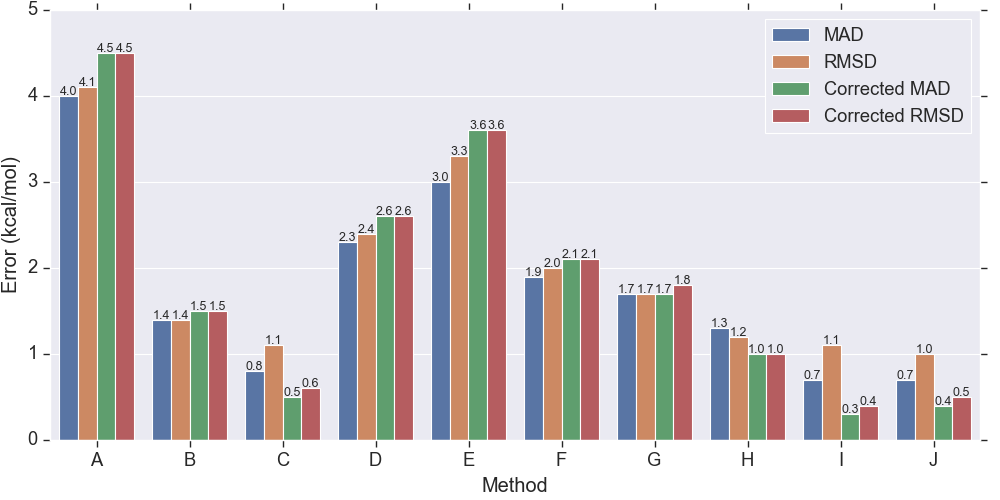
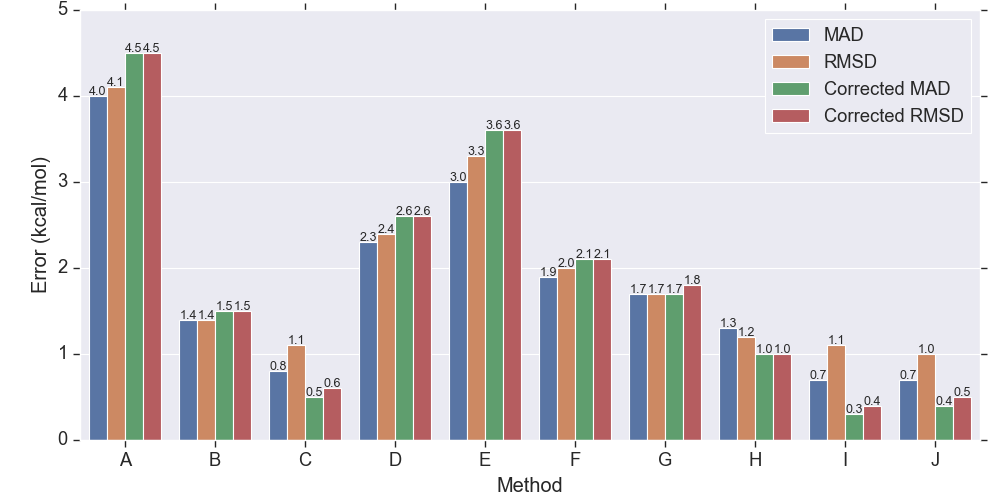
Updated QM plots

diff --git a/QM/visualG/plot_fig.py b/QM/visualG/plot_fig.py
@@ -11,13 +11,16 @@ import pandas as pd
 import numpy as np
 from matplotlib import pyplot as plt
 from QM.run_gaussian.settings import DATA_PATH
-from QM.visualG.plot_config import combination_dict, charge_list, DI_list, benchmarking_data, barrier_data
+from QM.visualG.plot_config import combination_dict, charge_list, charge_list_A, charge_list_B, DI_list, \
+    benchmarking_data, barrier_data
 
 sns.set(context='paper', font_scale=1.5)
 # sns.despine()  # Remove "chartjunk"
 
 SINGLE_PLOT_WIDTH, SINGLE_PLOT_HEIGHT = 6, 4
+TWO_PLOT_WIDTH, TWO_PLOT_HEIGHT = 9, 3.5
 FOUR_PLOTS_WIDTH, FOUR_PLOTS_HEIGHT = 8, 6
+SIX_PLOTS_WIDTH, SIX_PLOTS_HEIGHT = 8, 10
 EIGHT_PLOTS_WIDTH, EIGHT_PLOTS_HEIGHT = 10, 14
 BAR_PLOTS_WIDTH, BAR_PLOTS_HEIGHT = 10, 5
 
@@ -31,13 +34,13 @@ def lin_reg(m, c, r2, xlimit, leg_loc, font_size="x-small"):
 
 
 if __name__ == "__main__":
-    analysis_type = "Bar"
+    analysis_type = "Regression"
     if analysis_type == "Bar":
 
         # Statistical Measures
         df = pd.DataFrame(benchmarking_data)
         fig = plt.figure(figsize=(BAR_PLOTS_WIDTH, BAR_PLOTS_HEIGHT))
-        fig.subplots_adjust(top=0.98, bottom=0.12, left=0.05, right=0.98)
+        fig.subplots_adjust(top=0.98, bottom=0.12, left=0.08, right=0.98)
         ax = sns.barplot(x="Method", y="Error (kcal/mol)", data=df, hue="Measure", palette="deep")
         for p in ax.patches:
             ax.annotate(format(p.get_height(), ".1f"), (p.get_x()+p.get_width()/2., p.get_height()), ha="center",
@@ -45,20 +48,20 @@ if __name__ == "__main__":
         leg = ax.legend(); leg.set_title("")
         plt.legend(loc='upper right'); plt.ylim(None, 5.0); plt.xlim(None, None)
         plt.savefig("Benchmarking Statistical Measures")
-        plt.show()
+        # plt.show()
 
         # Elimination Barriers
         df = pd.DataFrame(barrier_data)
         fig = plt.figure(figsize=(FOUR_PLOTS_WIDTH, FOUR_PLOTS_HEIGHT))
-        fig.subplots_adjust(top=0.9, bottom=0.1, left=0.1, right=0.95)
-        ax = sns.barplot(x="Ligand", y="Elimination Barrier (kcal/mol)", data=df, hue="Mechanism", palette="deep")
+        fig.subplots_adjust(top=0.97, bottom=0.1, left=0.08, right=0.97)
+        ax = sns.barplot(x="Inhibitor", y="Elimination Barrier (kcal/mol)", data=df, hue="Mechanism", palette="deep")
         for p in ax.patches:
             ax.annotate(format(p.get_height(), ".1f"), (p.get_x()+p.get_width()/2., p.get_height()), ha="center",
                         va="center", xytext=(0, 10), textcoords="offset pixels", fontsize=12)
         leg = ax.legend(); leg.set_title("")
         plt.legend(loc='upper left'); plt.ylim(None, None); plt.xlim(None, None)
         plt.savefig("Elimination Barrier for Different Mechanisms")
-        # plt.show()
+        plt.show()
 
     elif analysis_type == "Regression":
         combination = "CombinationI"
@@ -72,31 +75,34 @@ if __name__ == "__main__":
         m, c, r2, x_axis, y_axis, leg, fontsize = chosen_dict["M"], chosen_dict["C"], chosen_dict["R2"], chosen_dict[
             "X-AXIS"], chosen_dict["Y-AXIS"], chosen_dict["LEG"], chosen_dict["FONTSIZE"]
         fig = plt.figure(figsize=(SINGLE_PLOT_WIDTH, SINGLE_PLOT_HEIGHT))
-        fig.subplots_adjust(top=0.9, bottom=0.1, left=0.1, right=0.95)
-        ax = sns.scatterplot(x="TS S-C Distance (A)", y="Addition Barrier (kcal/mol)", data=df, hue="Ligand", legend=False, s=100)
+        fig.subplots_adjust(top=0.99, bottom=0.05, left=0.05, right=0.99)
+        ax = sns.scatterplot(x="TS S-C Distance (A)", y="Addition Barrier (kcal/mol)", data=df, hue="Inhibitor", legend=False, s=100)
         ax.set(xlabel=r"TS S-C$\beta$ Distance ($\AA$)")
+        ax.set(ylabel=u"$\Delta G^\u2021$ (kcal/mol)")
         for line in range(1, df.shape[0] + 1):
             ax.text(df["TS S-C Distance (A)"][line] + x_axis, df["Addition Barrier (kcal/mol)"][line] + y_axis,
-                    df["Ligand"][line], horizontalalignment='center', size='small', color='black')
+                    df["Inhibitor"][line], horizontalalignment='center', size='small', color='black')
         lin_reg(m, c, r2, plt.xlim(), leg, fontsize)
         plt.ylim(None, None); plt.xlim(None, None)
         plt.tight_layout()
         plt.savefig(r"{0}/TS S-C Distance".format(combination))
 
-        # Ligand LUMO Energy
+        # Inhibitor LUMO Energy
         chosen_dict = prop_dict["LUMO"]
         m, c, r2, x_axis, y_axis, leg, fontsize = chosen_dict["M"], chosen_dict["C"], chosen_dict["R2"], chosen_dict[
             "X-AXIS"], chosen_dict["Y-AXIS"], chosen_dict["LEG"], chosen_dict["FONTSIZE"]
         fig = plt.figure(figsize=(SINGLE_PLOT_WIDTH, SINGLE_PLOT_HEIGHT))
-        fig.subplots_adjust(top=0.9, bottom=0.1, left=0.1, right=0.95)
-        ax = sns.scatterplot(x="Ligand LUMO Energy (kcal/mol)", y="Addition Barrier (kcal/mol)", data=df, hue="Ligand", legend=False, s=100)
+        fig.subplots_adjust(top=0.99, bottom=0.05, left=0.05, right=0.99)
+        ax = sns.scatterplot(x="Inhibitor LUMO Energy (kcal/mol)", y="Addition Barrier (kcal/mol)", data=df, hue="Inhibitor", legend=False, s=100)
+        ax.set(ylabel=u"$\Delta G^\u2021$ (kcal/mol)")
         for line in range(1, df.shape[0] + 1):
-            ax.text(df["Ligand LUMO Energy (kcal/mol)"][line] + x_axis, df["Addition Barrier (kcal/mol)"][line] + y_axis,
-                    df["Ligand"][line], horizontalalignment='center', size='small', color='black')
+            ax.text(df["Inhibitor LUMO Energy (kcal/mol)"][line] + x_axis, df["Addition Barrier (kcal/mol)"][line] + y_axis,
+                    df["Inhibitor"][line], horizontalalignment='center', size='small', color='black')
         lin_reg(m, c, r2, plt.xlim(), leg, fontsize)
         plt.ylim(None, None); plt.xlim(None, None)
         plt.tight_layout()
-        plt.savefig("{0}/Ligand LUMO Energy".format(combination))
+        plt.savefig("{0}/Inhibitor LUMO Energy".format(combination))
+        # plt.show()
 
         # Beta-Carbon Charges
         fig = plt.figure(figsize=(EIGHT_PLOTS_WIDTH, EIGHT_PLOTS_HEIGHT))
@@ -109,30 +115,79 @@ if __name__ == "__main__":
                 "X-AXIS"], chosen_dict["Y-AXIS"], chosen_dict["LEG"], chosen_dict["ALIGN"], chosen_dict["FONTSIZE"], chosen_dict["X-NAME"]
             ax1 = fig.add_subplot(4, 2, i + 1)
             p1 = sns.scatterplot(x=x_name, y="Addition Barrier (kcal/mol)", data=df,
-                                 hue="Ligand", legend=False, s=100)
+                                 hue="Inhibitor", legend=False, s=100)
             for line in range(1, df.shape[0] + 1):
                 ax1.text(df[x_name][line] + x_axis, df["Addition Barrier (kcal/mol)"][line] + y_axis,
-                         df["Ligand"][line], horizontalalignment=txt_align, size='small', color='black')
+                         df["Inhibitor"][line], horizontalalignment=txt_align, size='small', color='black')
             lin_reg(m, c, r2, plt.xlim(), leg, fontsize)
         plt.savefig("{0}/Beta-Carbon Charges".format(combination))
         # plt.show()
 
+        # Beta-Carbon Charges for Report
+        fig = plt.figure(figsize=(TWO_PLOT_WIDTH, TWO_PLOT_HEIGHT))
+        fig.subplots_adjust(top=0.96, bottom=0.18, left=0.08, right=0.97, wspace=0.25, hspace=0.45)
+        # fig.suptitle(r"Correlation between $\beta$-Carbon Charge and Addition Barrier",
+        #              horizontalalignment='center', fontsize=16, weight='bold')
+        for i, model in enumerate(charge_list_A):
+            chosen_dict = prop_dict["Charge"][model]
+            m, c, r2, x_axis, y_axis, leg, txt_align, fontsize, x_name = chosen_dict["M"], chosen_dict["C"], chosen_dict["R2"], chosen_dict[
+                "X-AXIS"], chosen_dict["Y-AXIS"], chosen_dict["LEG"], chosen_dict["ALIGN"], chosen_dict["FONTSIZE"], chosen_dict["X-NAME"]
+            ax1 = fig.add_subplot(1, 2, i + 1)
+            p1 = sns.scatterplot(x=x_name, y="Addition Barrier (kcal/mol)", data=df,
+                                 hue="Inhibitor", legend=False, s=100)
+            p1.set(ylabel=u"$\Delta G^\u2021$ (kcal/mol)")
+            for line in range(1, df.shape[0] + 1):
+                ax1.text(df[x_name][line] + x_axis, df["Addition Barrier (kcal/mol)"][line] + y_axis,
+                         df["Inhibitor"][line], horizontalalignment=txt_align, size='small', color='black')
+            lin_reg(m, c, r2, plt.xlim(), leg, fontsize)
+        fig.text(0.005, 0.96, "(a)", va='center', ha='left'); fig.text(0.5, 0.96, "(b)", va='center', ha='left')
+        plt.savefig("{0}/Beta-Carbon Charges for Report A".format(combination))
+
+        fig = plt.figure(figsize=(SIX_PLOTS_WIDTH, SIX_PLOTS_HEIGHT))
+        fig.subplots_adjust(top=0.98, bottom=0.06, left=0.09, right=0.97, wspace=0.3, hspace=0.35)
+        # fig.suptitle(r"Correlation between $\beta$-Carbon Charge and Addition Barrier",
+        #              horizontalalignment='center', fontsize=16, weight='bold')
+        for i, model in enumerate(charge_list_B):
+            chosen_dict = prop_dict["Charge"][model]
+            m, c, r2, x_axis, y_axis, leg, txt_align, fontsize, x_name = chosen_dict["M"], chosen_dict["C"], chosen_dict["R2"], chosen_dict[
+                "X-AXIS"], chosen_dict["Y-AXIS"], chosen_dict["LEG"], chosen_dict["ALIGN"], chosen_dict["FONTSIZE"], chosen_dict["X-NAME"]
+            ax1 = fig.add_subplot(3, 2, i + 1)
+            p1 = sns.scatterplot(x=x_name, y="Addition Barrier (kcal/mol)", data=df,
+                                 hue="Inhibitor", legend=False, s=100)
+            p1.set(ylabel=u"$\Delta G^\u2021$ (kcal/mol)")
+            for line in range(1, df.shape[0] + 1):
+                ax1.text(df[x_name][line] + x_axis, df["Addition Barrier (kcal/mol)"][line] + y_axis,
+                         df["Inhibitor"][line], horizontalalignment=txt_align, size='small', color='black')
+            lin_reg(m, c, r2, plt.xlim(), leg, fontsize)
+        fig.text(0.007, 0.98, "(a)", va='center', ha='left'); fig.text(0.505, 0.98, "(b)", va='center', ha='left')
+        fig.text(0.007, 0.643, "(c)", va='center', ha='left'); fig.text(0.505, 0.643, "(d)", va='center', ha='left')
+        fig.text(0.007, 0.31, "(e)", va='center', ha='left'); fig.text(0.505, 0.31, "(f)", va='center', ha='left')
+        plt.savefig("{0}/Beta-Carbon Charges for Report B".format(combination))
+        # plt.show()
+
+        raise
+
         # Distortion/Interaction Analysis
         fig = plt.figure(figsize=(FOUR_PLOTS_WIDTH, FOUR_PLOTS_HEIGHT))
-        # fig, axes = plt.subplots(nrows=2, ncols=2, sharex=False, sharey=True)
-        fig.subplots_adjust(top=0.9, bottom=0.1, left=0.1, right=0.95, wspace=0.3, hspace=0.45)
-        fig.suptitle("Correlation between Distortion/Interaction Energies and Addition Barrier", horizontalalignment='center', fontsize=16, weight='bold')
+        fig.subplots_adjust(top=0.98, bottom=0.11, left=0.09, right=0.97, wspace=0.35, hspace=0.4)
+        # fig.suptitle("Correlation between Distortion/Interaction Energies and Addition Barrier",
+        #             horizontalalignment='center', fontsize=16, weight='bold')
         for i, aspect in enumerate(DI_list):
             chosen_dict = prop_dict["DI"][aspect]
             m, c, r2, x_axis, y_axis, leg, txt_align, fontsize, x_name = chosen_dict["M"], chosen_dict["C"], chosen_dict["R2"], chosen_dict[
                 "X-AXIS"], chosen_dict["Y-AXIS"], chosen_dict["LEG"], chosen_dict["ALIGN"], chosen_dict["FONTSIZE"], chosen_dict["X-NAME"]
             ax1 = fig.add_subplot(2, 2, i + 1)
             p1 = sns.scatterplot(x=x_name, y="Addition Barrier (kcal/mol)", data=df,
-                                 hue="Ligand", legend=False, s=100)
+                                 hue="Inhibitor", legend=False, s=100)
+            p1.set(ylabel=u"$\Delta G^\u2021$ (kcal/mol)")
+            if aspect == "Activation":
+                p1.set(xlabel=u"$\Delta E^\u2021$ (kcal/mol)")
             for line in range(1, df.shape[0] + 1):
                 ax1.text(df[x_name][line] + x_axis, df["Addition Barrier (kcal/mol)"][line] + y_axis,
-                         df["Ligand"][line], horizontalalignment=txt_align, size='small', color='black')
+                         df["Inhibitor"][line], horizontalalignment=txt_align, size='small', color='black')
             lin_reg(m, c, r2, plt.xlim(), leg, fontsize)
+        fig.text(0.005, 0.98, "(a)", va='center', ha='left'); fig.text(0.51, 0.98, "(b)", va='center', ha='left')
+        fig.text(0.005, 0.47, "(c)", va='center', ha='left'); fig.text(0.51, 0.47, "(d)", va='center', ha='left')
         plt.ylim(None, None); plt.xlim(None, None)
         plt.savefig("{0}/Distortion-Interaction Analysis".format(combination))
         # plt.show()

diff --git a/QM/visualG/plot_config.py b/QM/visualG/plot_config.py
@@ -7,8 +7,10 @@ Though recognition of my effort is appreciated! XD
 """
 
 
-charge_list = ["Mulliken", "NBO", "MK", "Hirshfeld", "CM5", "AIM", "ChelpG", "Omega"]
-DI_list = ["Thiolate", "Ligand", "Activation", "Interaction"]
+charge_list = ["Mulliken", "NBO", "MK", "Hirshfeld", "CM5", "QTAIM", "ChelpG", "Omega"]
+charge_list_A = ["Mulliken", "QTAIM"]
+charge_list_B = ["NBO", "MK", "Hirshfeld", "CM5", "ChelpG", "Omega"]
+DI_list = ["Thiolate", "Inhibitor", "Activation", "Interaction"]
 
 benchmarking_data = {"Measure": ["MAD", "MAD", "MAD", "MAD", "MAD", "MAD", "MAD", "MAD", "MAD", "MAD",
                                  "RMSD", "RMSD", "RMSD", "RMSD", "RMSD", "RMSD", "RMSD", "RMSD", "RMSD", "RMSD",
@@ -26,7 +28,7 @@ benchmarking_data = {"Measure": ["MAD", "MAD", "MAD", "MAD", "MAD", "MAD", "MAD"
 barrier_data = {"Mechanism": ["Base-Catalysed Proton Abstraction", "Base-Catalysed Proton Abstraction", "Base-Catalysed Proton Abstraction", "Base-Catalysed Proton Abstraction", "Base-Catalysed Proton Abstraction",
                               "4-Membered Intramolecular Proton Transfer", "4-Membered Intramolecular Proton Transfer", "4-Membered Intramolecular Proton Transfer", "4-Membered Intramolecular Proton Transfer", "4-Membered Intramolecular Proton Transfer",
                               "6-Membered Intramolecular Proton Transfer", "6-Membered Intramolecular Proton Transfer", "6-Membered Intramolecular Proton Transfer", "6-Membered Intramolecular Proton Transfer", "6-Membered Intramolecular Proton Transfer"],
-                "Ligand": ["1", "3", "47", "5", "9",
+                "Inhibitor": ["1", "3", "47", "5", "9",
                            "1", "3", "47", "5", "9",
                            "1", "3", "47", "5", "9"],
                 "Elimination Barrier (kcal/mol)": [11.0-(-5.9), 16.0-(-3.9), 13.9-(-4.0), 20.0-(-10.8), 14.2-(-5.5),
@@ -56,7 +58,7 @@ combination_dict = {
             "LEG": "upper left",
             "ALIGN": "center",
             "FONTSIZE": "medium",
-            "X-NAME": "Ligand LUMO Energy (kcal/mol)"
+            "X-NAME": "Inhibitor LUMO Energy (kcal/mol)"
         },
 
         "Charge": {
@@ -68,7 +70,7 @@ combination_dict = {
                 "Y-AXIS": 0,
                 "LEG": "upper right",
                 "ALIGN": "right",
-                "FONTSIZE": "x-small",
+                "FONTSIZE": "small",
                 "X-NAME": "Mulliken Charge (e)"
             },
             "NBO": {
@@ -79,7 +81,7 @@ combination_dict = {
                 "Y-AXIS": 0,
                 "LEG": "upper right",
                 "ALIGN": "right",
-                "FONTSIZE": "x-small",
+                "FONTSIZE": "small",
                 "X-NAME": "NBO Charge (e)"
             },
             "MK": {
@@ -90,7 +92,7 @@ combination_dict = {
                 "Y-AXIS": 0,
                 "LEG": "upper right",
                 "ALIGN": "left",
-                "FONTSIZE": "x-small",
+                "FONTSIZE": "small",
                 "X-NAME": "Merz-Kollman Charge (e)"
             },
             "Hirshfeld": {
@@ -112,10 +114,10 @@ combination_dict = {
                 "Y-AXIS": 0,
                 "LEG": "upper right",
                 "ALIGN": "right",
-                "FONTSIZE": "x-small",
+                "FONTSIZE": "small",
                 "X-NAME": "CM5 Charge (e)"
             },
-            "AIM": {
+            "QTAIM": {
                 "M": -92.849,
                 "C": 14.411,
                 "R2": 0.8573,
@@ -123,8 +125,8 @@ combination_dict = {
                 "Y-AXIS": 0,
                 "LEG": "upper right",
                 "ALIGN": "right",
-                "FONTSIZE": "x-small",
-                "X-NAME": "AIM Charge (e)"
+                "FONTSIZE": "small",
+                "X-NAME": "QTAIM Charge (e)"
             },
             "ChelpG": {
                 "M": -19.394,
@@ -134,7 +136,7 @@ combination_dict = {
                 "Y-AXIS": 0.2,
                 "LEG": "upper right",
                 "ALIGN": "right",
-                "FONTSIZE": "x-small",
+                "FONTSIZE": "small",
                 "X-NAME": "ChelpG Charge (e)"
             },
             "Omega": {
@@ -145,7 +147,7 @@ combination_dict = {
                 "Y-AXIS": 0,
                 "LEG": "upper right",
                 "ALIGN": "right",
-                "FONTSIZE": "x-small",
+                "FONTSIZE": "small",
                 "X-NAME": "Electrophilicity Index"
             },
         },
@@ -161,7 +163,7 @@ combination_dict = {
                 "FONTSIZE": "x-small",
                 "X-NAME": "Thiolate Distortion Energy (kcal/mol)"
             },
-            "Ligand": {
+            "Inhibitor": {
                 "M": 0.8082,
                 "C": 5.3355,
                 "R2": 0.9760,
@@ -170,7 +172,7 @@ combination_dict = {
                 "LEG": "best",
                 "ALIGN": "left",
                 "FONTSIZE": "x-small",
-                "X-NAME": "Ligand Distortion Energy (kcal/mol)"
+                "X-NAME": "Inhibitor Distortion Energy (kcal/mol)"
             },
             "Activation": {
                 "M": 0.9013,
@@ -206,7 +208,7 @@ combination_dict = {
             "LEG": "upper left",
             "ALIGN": "center",
             "FONTSIZE": "medium",
-            "X-NAME": "Ligand LUMO Energy (kcal/mol)"
+            "X-NAME": "Inhibitor LUMO Energy (kcal/mol)"
         },
 
         "Charge": {
@@ -265,7 +267,7 @@ combination_dict = {
                 "FONTSIZE": "x-small",
                 "X-NAME": "CM5 Charge (e)"
             },
-            "AIM": {
+            "QTAIM": {
                 "M": -95.9,
                 "C": 15.637,
                 "R2": 0.7617,
@@ -274,7 +276,7 @@ combination_dict = {
                 "LEG": "upper right",
                 "ALIGN": "right",
                 "FONTSIZE": "x-small",
-                "X-NAME": "AIM Charge (e)"
+                "X-NAME": "QTAIM Charge (e)"
             },
             "ChelpG": {
                 "M": -23.509,
@@ -311,7 +313,7 @@ combination_dict = {
                 "FONTSIZE": "x-small",
                 "X-NAME": "Thiolate Distortion Energy (kcal/mol)"
             },
-            "Ligand": {
+            "Inhibitor": {
                 "M": 0.9119,
                 "C": 6.9095,
                 "R2": 0.9469,
@@ -320,7 +322,7 @@ combination_dict = {
                 "LEG": "best",
                 "ALIGN": "left",
                 "FONTSIZE": "x-small",
-                "X-NAME": "Ligand Distortion Energy (kcal/mol)"
+                "X-NAME": "Inhibitor Distortion Energy (kcal/mol)"
             },
             "Activation": {
                 "M": 0.9652,
